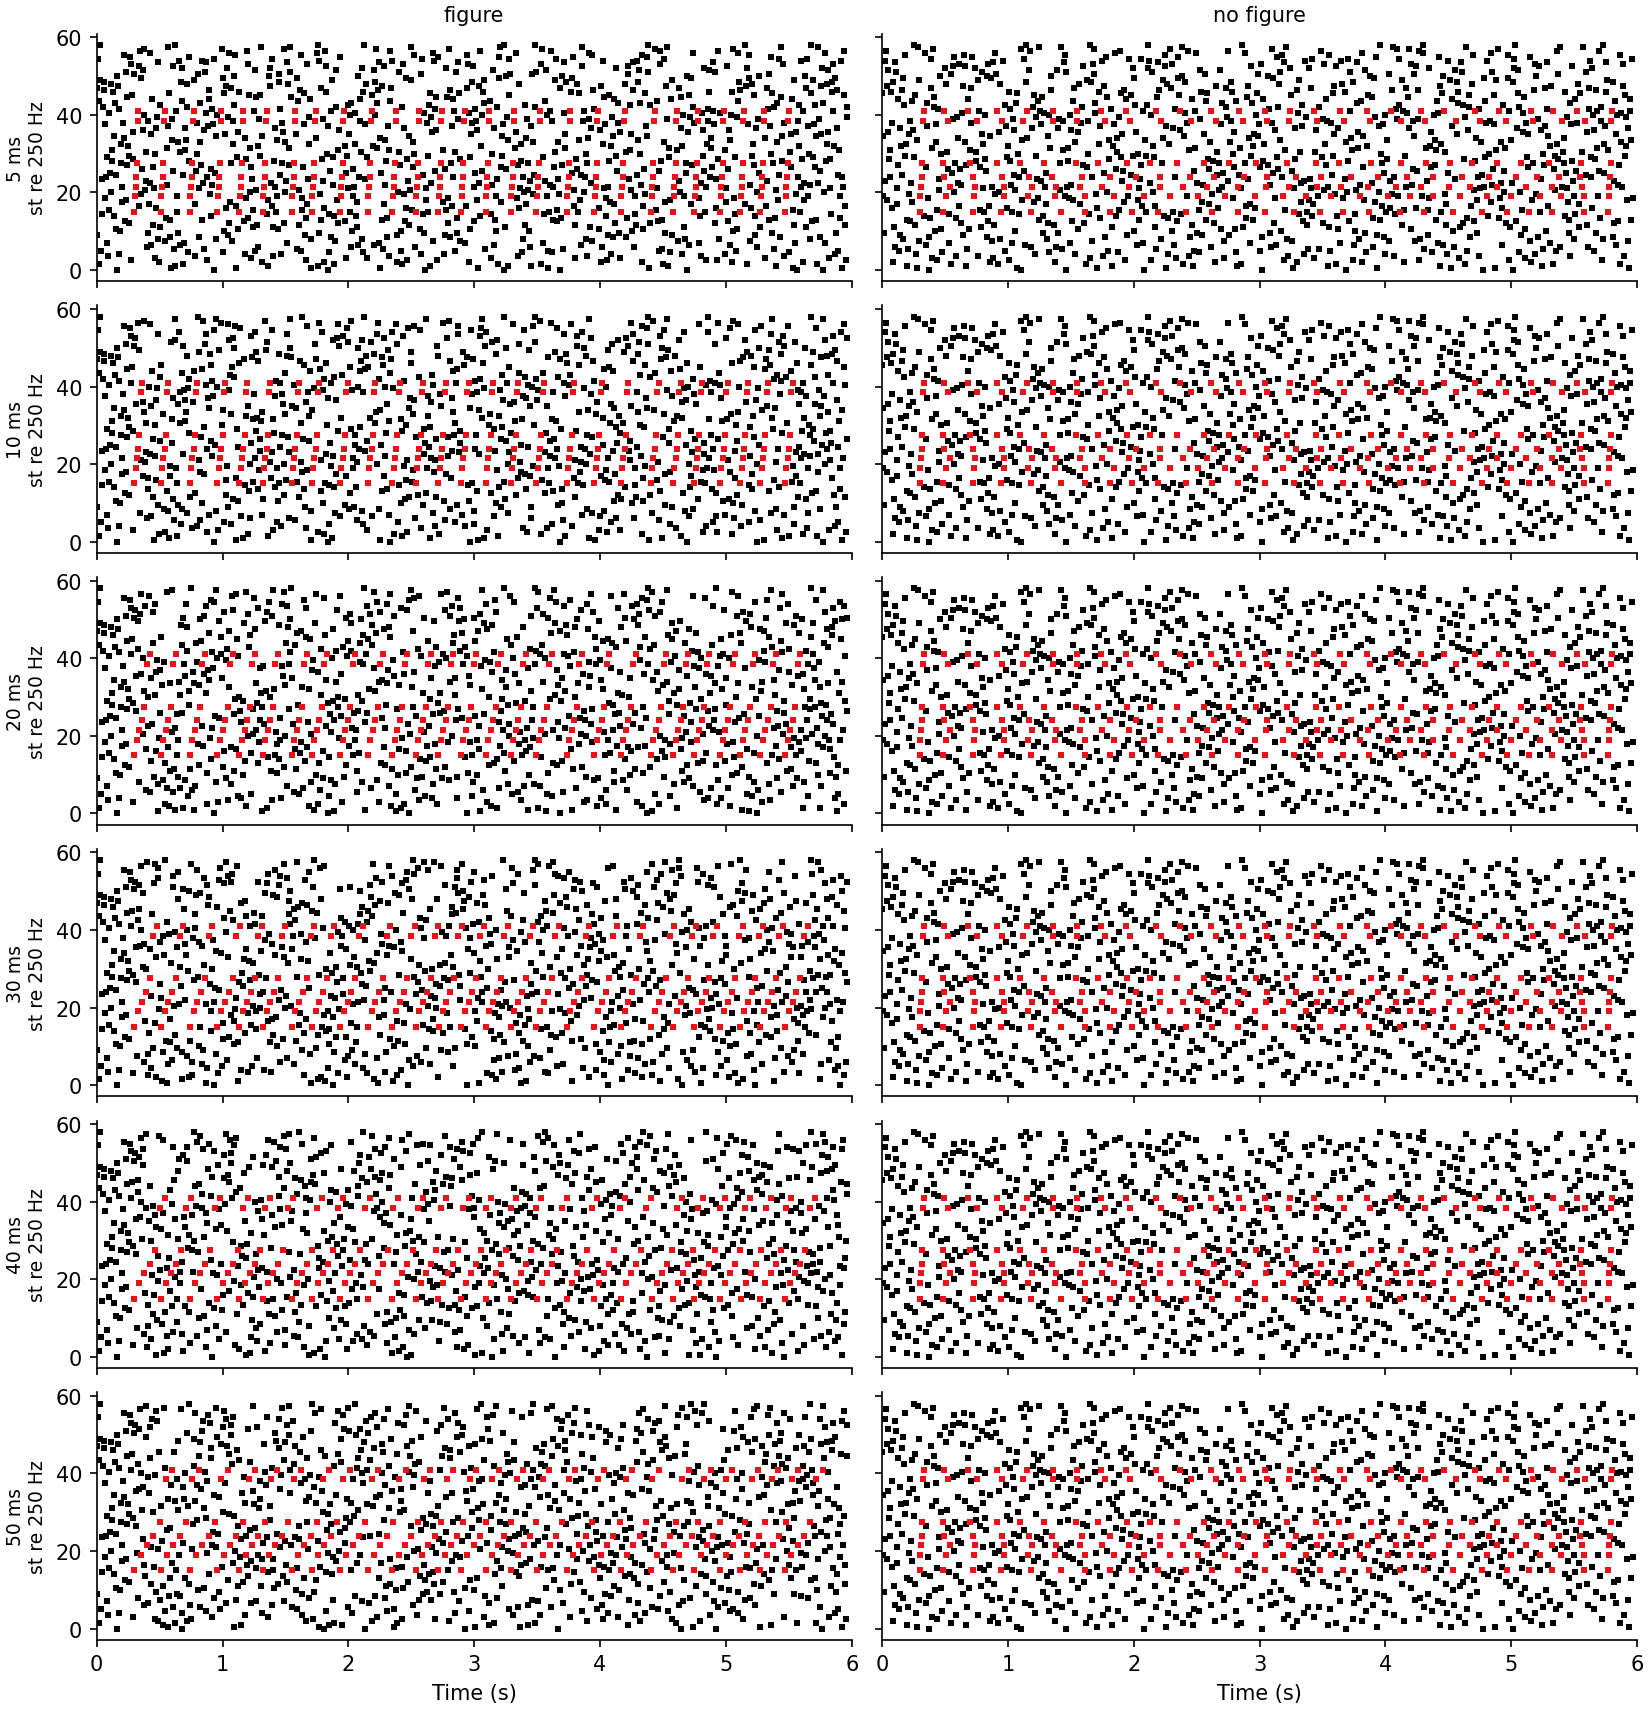
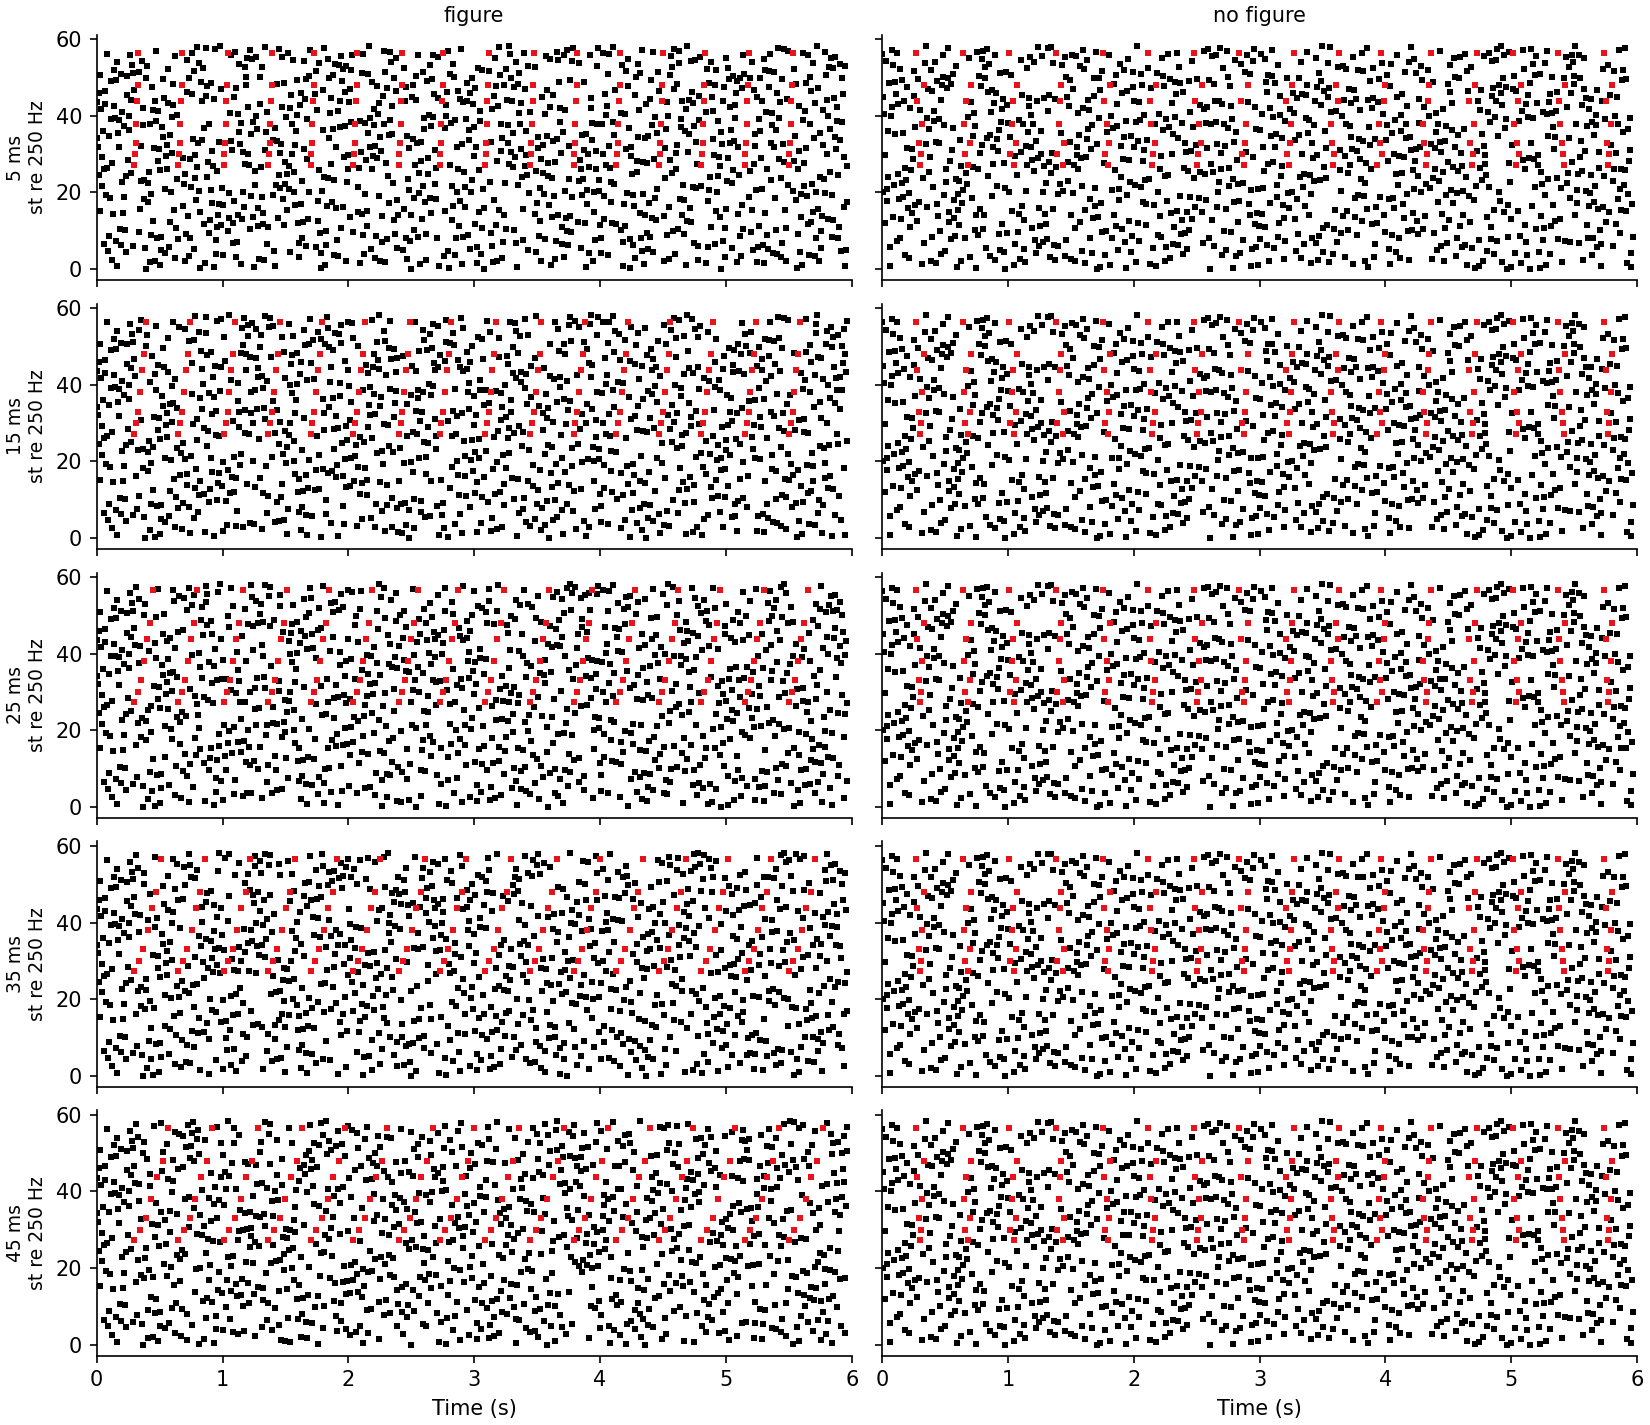
audios/sfg_task: elements never overlap, so the sweep is monotonic again
The worst thing in the design, and it was invisible until the delays were
laid against the repetition period.  At 5 Hz the period is 200 ms and a
50 ms-per-tone element is 350 ms long, so tones of successive repetitions
landed on top of each other -- and because the delays divide into the
period, the coincidences came back at exactly the delays meant to have none.
Two exactly-coincident channel pairs at 40 ms, three at 50.  Measured on the
built stimulus, near-simultaneous figure pairs per interval ran 162, 0, 0,
6, 21, 17 across the sweep: not monotonic, and rising again where the effect
was supposed to be disappearing.  sub-Meysam-2's accuracy tracked that
artefact at r = +0.94, so the "no delay effect" that session reported is
most likely the stimulus re-synchronising itself.

Elements now never overlap: the gap is never shorter than the longest
element in the experiment.  That costs the speech rate, 5 Hz down to 2.88,
and the element count with it, 27 down to 16.  A 1/48 octave channel grid
buys the contrast back and more, 2.7x to 4.4x, because what the figure
stands out from is the background's rate per channel and a finer grid thins
it without touching the figure.  Nothing beats: no two tones sound at once
inside one critical band whatever the grid is.

The sweep is 5 to 45 ms in five steps and the session is 34 minutes
including practice.  Co-onsets are now a row in the battery: 96 at 5 ms,
[…]

diff --git a/audios/sfg_task/config.py b/audios/sfg_task/config.py
@@ -19,7 +19,7 @@ class Design:
     # tones rather than adding to them, that means 1400 onsets a second and
     # no contrast left.  5 ms is the anchor instead: 30 ms from the figure's
     # first tone to its last, well inside any integration window.
-    steps_ms: tuple[float, ...] = (5.0, 10.0, 20.0, 30.0, 40.0, 50.0)
+    steps_ms: tuple[float, ...] = (5.0, 15.0, 25.0, 35.0, 45.0)
     coherence: int = 7           # tones in the figure
     order: str = "rise"          # 'rise' | 'fall' -- the main sweep is 'rise'
 
@@ -43,7 +43,14 @@ class Design:
     f_hi: float = 7246.0         # not weight for equal loudness; at 60 phon
                                  # that octave is boosted 11 dB and takes
                                  # over the stimulus
-    grid_st: float = 0.5
+    grid_st: float = 0.25        # 1/48 octave, finer than the published 1/24.
+                                 # The background's rate per channel is what
+                                 # the figure has to stand out from, and a
+                                 # finer grid thins it without touching the
+                                 # figure: contrast 2.7x at 0.5 st, 4.5x at
+                                 # 0.25.  Nothing beats, because no two tones
+                                 # sound at once inside one critical band
+                                 # whatever the grid is.
     bg_sounding: int = 6         # TOTAL tones sounding, figure included: the
                                  # figure substitutes, so this is the whole
                                  # cloud.  It has to be tone_ms/hop_ms, which
@@ -94,9 +101,15 @@ class Design:
     # conditions differ in more than asynchrony.  Chosen deliberately, to
     # keep the figure at a speech rate.
     interval_s: float = 6.0
-    rate_hz: float = 5.0
-    jitter_ms: float = 40.0      # +- on each interval between elements, so
+    rate_hz: float = 3.0         # elements NEVER overlap: at 5 Hz a 300 ms
+                                 # element ran into the next one and tones
+                                 # from successive repetitions landed on top
+                                 # of each other, which put accidental
+                                 # synchrony back into exactly the delays
+                                 # meant to have none
+    jitter_ms: float = 20.0      # +- on each interval between elements, so
                                  # the rhythm is not isochronous
+    element_gap_ms: float = 20.0  # silence between one element and the next
     lead_ms: float = 300.0
     tail_ms: float = 200.0
 
@@ -114,7 +127,7 @@ class Design:
     absent: str = "scattered"    # 'scattered' | 'cloud'
 
     task: str = "2ifc"           # '2ifc' (criterion-free) | 'yesno'
-    trials_per_step: int = 20    # doubled automatically for yes/no, which
+    trials_per_step: int = 24    # doubled automatically for yes/no, which
                                  # needs figure-absent trials of its own
     practice_trials: int = 16
     practice_criterion: int = 8  # correct out of the last 10 to move on
@@ -198,16 +211,29 @@ class Design:
         return self.n_slots - self.tail - self.max_extent - self.lead
 
     @property
-    def events(self) -> int:
-        """Elements per interval, from the rate and the room available."""
-        return max(2, int(round(self.rate_hz * self.span * self.hop_ms / 1000)) + 1)
+    def min_gap(self) -> int:
+        """The shortest allowed interval between two element onsets.
+
+        Long enough that the longest element in the experiment finishes
+        first.  Elements that overlap put tones from successive repetitions
+        on top of each other, and because the delays divide into the period
+        that restores synchrony at the widest delays: the manipulation stops
+        being monotonic.  Also at least one tone plus its rest, since every
+        element uses the same channels."""
+        return max(self.max_extent + int(round(self.element_gap_ms / self.hop_ms)),
+                   int(round((self.tone_ms + self.guard_ms) / self.hop_ms)))
 
     @property
-    def min_gap(self) -> int:
-        """Two elements may overlap, but a channel may not sound twice at
-        once: every element uses the same channels, so the interval between
-        elements has to clear one tone plus its rest."""
-        return int(round((self.tone_ms + self.guard_ms) / self.hop_ms))
+    def events(self) -> int:
+        """Elements per interval: the rate, or as many as leave room for the
+        jitter, whichever is fewer."""
+        by_rate = int(round(self.rate_hz * self.span * self.hop_ms / 1000)) + 1
+        room = self.min_gap + int(round(self.jitter_ms / self.hop_ms))
+        return max(2, min(by_rate, self.span // room + 1))
+
+    @property
+    def realised_rate(self) -> float:
+        return (self.events - 1) / (self.span * self.hop_ms / 1000)
 
     @property
     def n_per_step(self) -> int:
@@ -263,8 +289,7 @@ class Design:
         span = 12 * math.log2(self.f_hi / self.f_lo)
         n_ch = int(span / self.grid_st) + 1
         bg = self.density * 1000.0 / self.hop_ms
-        rate = self.rate_hz
-        ov = self.extent_ms(max(self.steps_ms)) * rate / 1000.0
+        rate = self.realised_rate
         lines = [
             f"{self.task}  {len(self.steps_ms)} steps "
             f"{', '.join(f'{s:g}' for s in self.steps_ms)} ms  x "
@@ -276,12 +301,13 @@ class Design:
             f"  cloud     {self.bg_sounding} tones sounding, "
             f"{bg:.0f} onsets/s, {bg / n_ch:.2f}/s per channel",
             f"  figure    {self.coherence} tones over {self.fig_span_st:g} st, "
-            f"{self.events} elements per interval at {rate:g} Hz "
+            f"{self.events} elements per interval at {rate:.2f} Hz "
             f"+-{self.jitter_ms:g} ms -> contrast "
             f"{1 + self.events / self.interval_s / (bg / n_ch):.1f}x",
             f"  element   {self.extent_ms(min(self.steps_ms)):.0f}-"
-            f"{self.extent_ms(max(self.steps_ms)):.0f} ms long against a "
-            f"{1000 / rate:.0f} ms period, so up to {ov:.1f} sound at once",
+            f"{self.extent_ms(max(self.steps_ms)):.0f} ms long, gaps never "
+            f"under {self.min_gap * self.hop_ms:.0f} ms, so they never "
+            f"overlap",
             f"  session   {self.n_trials * self.trial_s / 60:.0f} min "
             f"+ practice + {self.n_trials // self.break_every} breaks",
         ]

diff --git a/audios/sfg_task/verify.py b/audios/sfg_task/verify.py
@@ -45,7 +45,8 @@ def verify(d: Design, step_ms: float, n: int = 12, variant: str = "rise",
     acc: dict[str, list] = {k: [[], []] for k in
                             ("tones", "snd_lo", "snd_hi", "rms", "fig", "bg",
                              "epoch", "band", "elem_cv", "repeat", "beat",
-                             "flat", "low", "fmax", "duty", "prom", "crowd")}
+                             "flat", "low", "fmax", "duty", "prom", "crowd",
+                             "coin")}
     for i in range(n):
         for j, sch in enumerate(trial(d, pl, step_ms=step_ms, seed=9000 + i,
                                       variant=variant, rove=False)):
@@ -92,6 +93,19 @@ def verify(d: Design, step_ms: float, n: int = 12, variant: str = "rise",
             acc["repeat"][j].append(rep)
             acc["flat"][j].append(sch["flat_db"])
             acc["crowd"][j].append(sch.get("crowded", 0))
+            # two figure tones in different channels starting together: the
+            # accidental synchrony that overlapping elements used to put back
+            # into exactly the delays meant to have none
+            fo = np.argsort(sch["slot"][sch["is_fig"]])
+            fch = sch["chan"][sch["is_fig"]][fo]
+            fsl = sch["slot"][sch["is_fig"]][fo]
+            co = 0
+            for u in range(fch.size):
+                v = u + 1
+                while v < fch.size and fsl[v] <= fsl[u] + 1:
+                    co += fch[v] != fch[u]
+                    v += 1
+            acc["coin"][j].append(co)
             fs_ = np.zeros(d.n_slots + d.k)
             for x in sch["slot"][sch["is_fig"]]:
                 fs_[x:x + d.k] += 1
@@ -153,6 +167,7 @@ def verify(d: Design, step_ms: float, n: int = 12, variant: str = "rise",
         elem_gain_cv=(m["elem_cv"][0], m["elem_cv"][1]),
         beating=(m["beat"][0], m["beat"][1]),
         crowded=(m["crowd"][0], m["crowd"][1]),
+        coincident=(m["coin"][0], m["coin"][1]),
         fig_sounding=(m["fmax"][0], m["fmax"][1]),
         fig_duty=(m["duty"][0], m["duty"][1]),
         prominence=(pr[0].mean(), pr[1].mean()),
@@ -174,6 +189,7 @@ ROWS = [
     ("element loudness peak, dB", "elem_peak_db", "{:.2f}"),
     ("element power spread, CV", "elem_gain_cv", "{:.4f}"),
     ("spectral prominence, dB", "prominence", "{:.2f}"),
+    ("figure tones starting together", "coincident", "{:.1f}"),
     ("figure tones at once, most", "fig_sounding", "{:.1f}"),
     ("figure sounding, % of time", "fig_duty", "{:.0f}"),
     ("beating pairs (< 1 ERB)", "beating", "{:.0f}"),

diff --git a/audios/sfg_task/stimulus.py b/audios/sfg_task/stimulus.py
@@ -169,16 +169,26 @@ def scatter_onsets(d: Design, rng: np.random.Generator) -> np.ndarray:
                 break
         else:
             raise ValueError("scatter control does not fit in the interval")
-        # Two of these channels landing in the same slot would be a chord,
-        # and a momentary chord is the thing this control exists to be
-        # without.  It also makes the tone count jump, which the coherent
-        # side does not do.  Nudge each onset to the nearest free slot.
+        # Two of these channels starting together would be a momentary
+        # chord, and a momentary chord is the thing this control exists to
+        # be without.  Pushing a collision into the next slot is not enough
+        # -- that is still 5 ms apart, and it leaves the control with more
+        # near-simultaneous onsets than the coherent side has.  Move to the
+        # nearest slot that clears every other figure onset by `apart`.
+        apart = max(2, int(round(min(d.steps_ms) / d.hop_ms)) + 1)
         ts = d.lead + np.concatenate(([0], np.cumsum(g)))
         for i, t in enumerate(ts):
-            while int(t) in taken:
-                t += 1
+            t = int(t)
+            for off in range(0, 200):
+                for cand in ((t + off, t - off) if off else (t,)):
+                    if all(abs(cand - u) >= apart for u in taken):
+                        t = cand
+                        break
+                else:
+                    continue
+                break
             ts[i] = t
-            taken.add(int(t))
+            taken.add(t)
         out.append(ts)
     return np.array(out)
 

diff --git a/audios/sfg_task/README.md b/audios/sfg_task/README.md
@@ -282,16 +282,14 @@ sessions halve that. Decide which you need before running twenty people once.
 
 ## What is not controlled, and cannot be
 
-* **The figure changes character across the sweep, not just its asynchrony.** A 0 ms
-  element is 50 ms long and puts seven tones on at once; a 50 ms element is 350 ms long,
-  overlaps its neighbour, and never has more than three tones sounding together.
-  Measured, a figure tone is sounding 23% of the time at 0 ms and 93% at 50 ms, and the
-  most that ever sound together falls from 7 to 3. Same total tone count, same rate,
-  same contrast, very different object. This is inherent to running a 350 ms element at
-  a 200 ms period and was chosen deliberately to keep the figure at a speech rate; the
-  alternative is to cap the sweep at 25 ms, which is what a non-overlapping 5 Hz figure
-  allows. `perm` and `scatter` are what bound the alternative explanations, and this is
-  the first limitation a referee will find.
+* **The figure changes character across the sweep, not just its asynchrony.** A 5 ms
+  element is 60 ms long and puts six tones on at once; a 45 ms element is 300 ms long
+  and never has more than one. Measured, a figure tone is sounding 16% of the time at
+  5 ms and 57% at 45 ms. Same tone count, same rate, same contrast, different object.
+  This is inherent to spreading tones in time. `perm` holds the extent and removes the
+  order; `scatter` is the limit where the asynchrony is unbounded. Those two bound the
+  alternative explanations, and this is the first limitation a referee will find.
+
 * **The other interval is not a plain cloud, and it cannot be.** Take the long-term
   spectrum of each interval, measure how far its loudest channels stand above their
   neighbours, and pick the interval with the taller peaks. Against a plain cloud that
